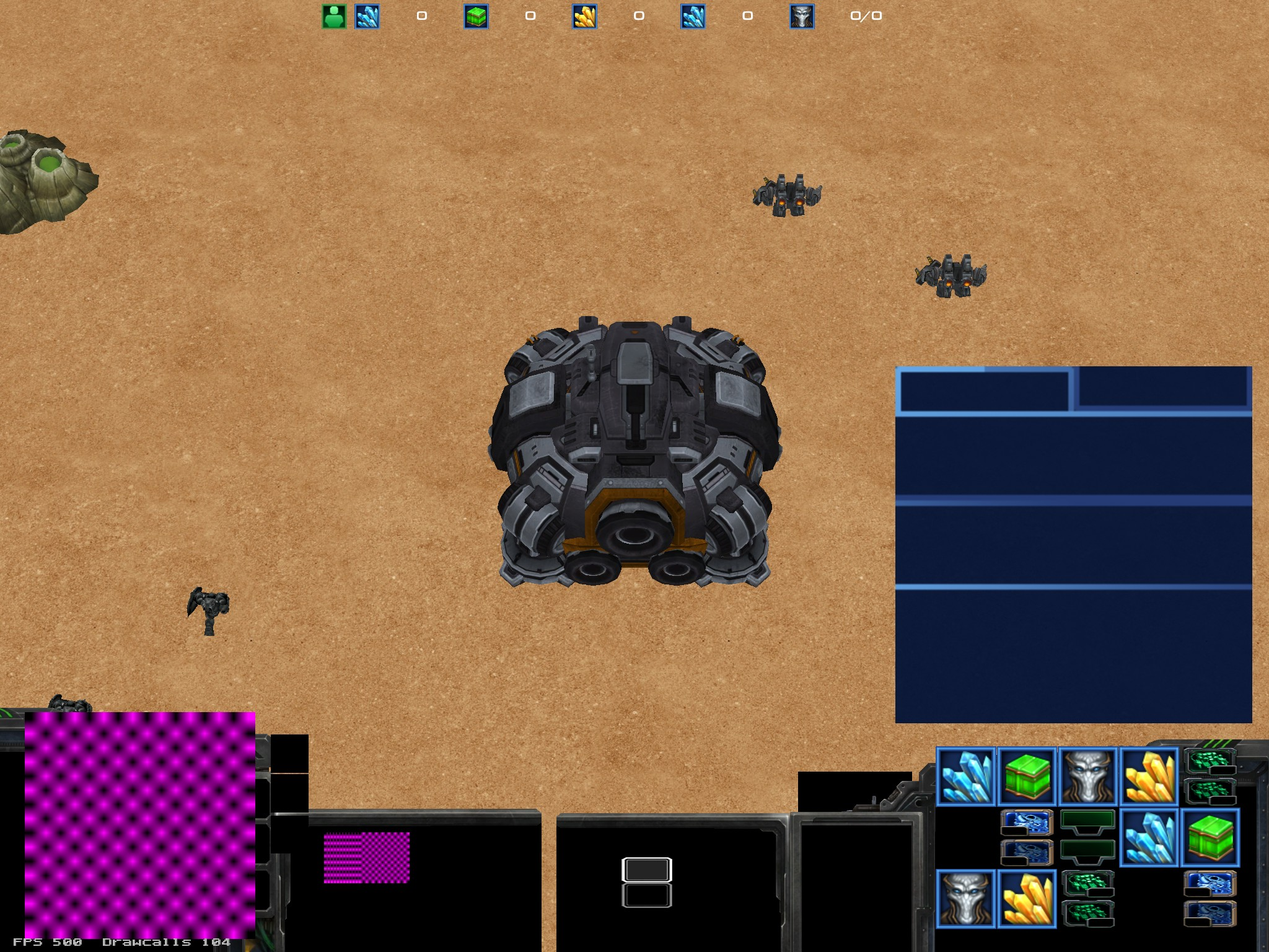
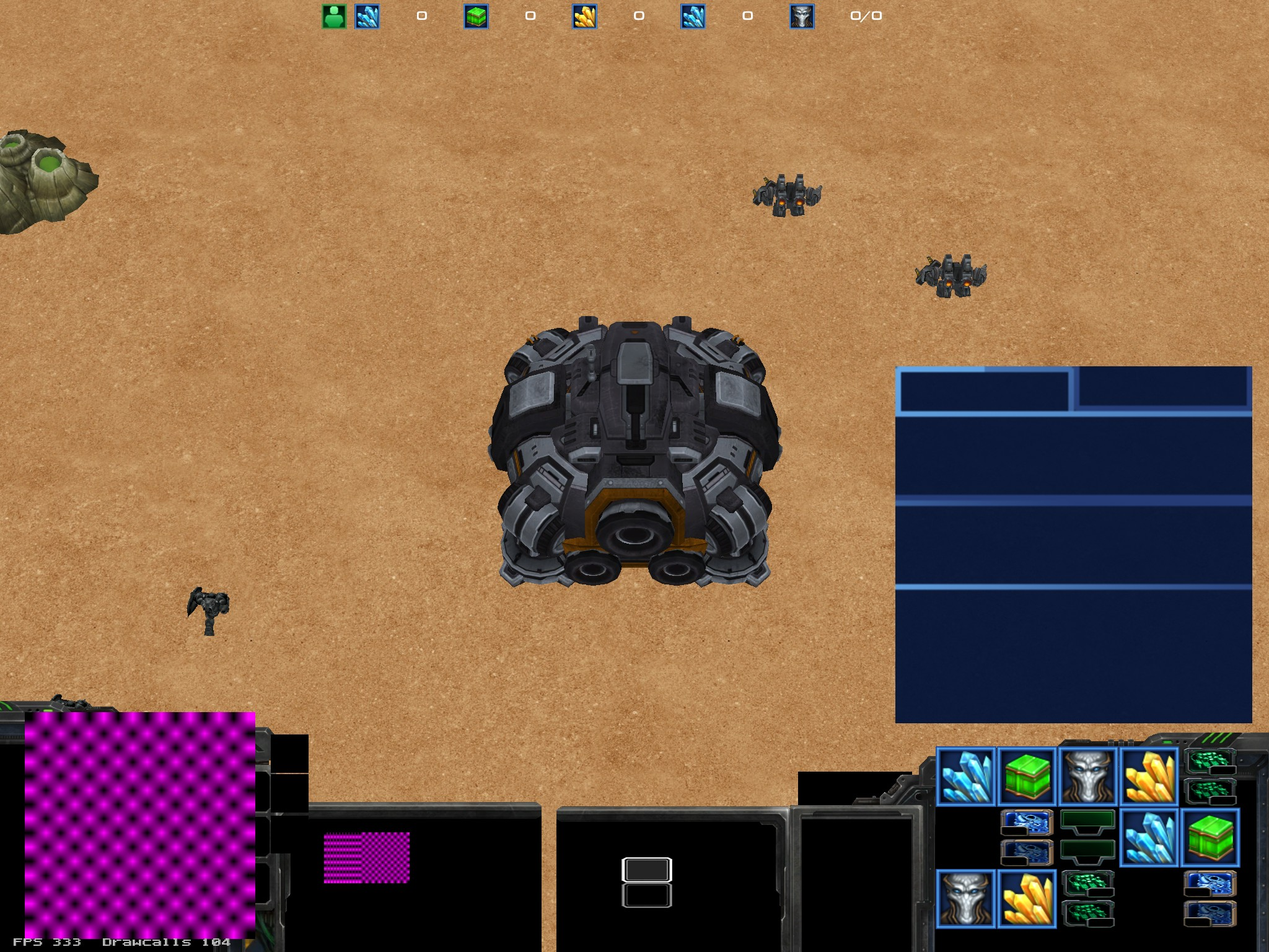
sc2: align console chrome bottom flush with screen edge
chrome_min_Z ≈ center.z + 0.04 (empirical from Stand animation geometry).
The previous 0.05f offset placed the ortho screen-bottom 0.01 world-units
above the chrome minimum, clipping ~18px off the bottom edge.  0.04f
aligns screen-bottom exactly with chrome-bottom so the chrome band sits
flush against the viewport edge as in reference SC2.

diff --git a/games/starcraft-2/renderer/r_game.c b/games/starcraft-2/renderer/r_game.c
@@ -396,7 +396,7 @@ bool R_GameExtractEntityCamera(renderEntity_t const *entity, float aspect, viewD
          * band stays the same size at the screen bottom. */
         float s     = radius * 1.05f;
         float dist  = 5.0f;
-        float tgt_z = center.z + 0.05f + s / aspect;
+        float tgt_z = center.z + 0.04f + s / aspect;
         VECTOR3 eye = { -entity->origin.x, center.y - dist, tgt_z };
         VECTOR3 tgt = { -entity->origin.x, center.y,        tgt_z };
         eye = Matrix4_multiply_vector3(&transform, &eye);
